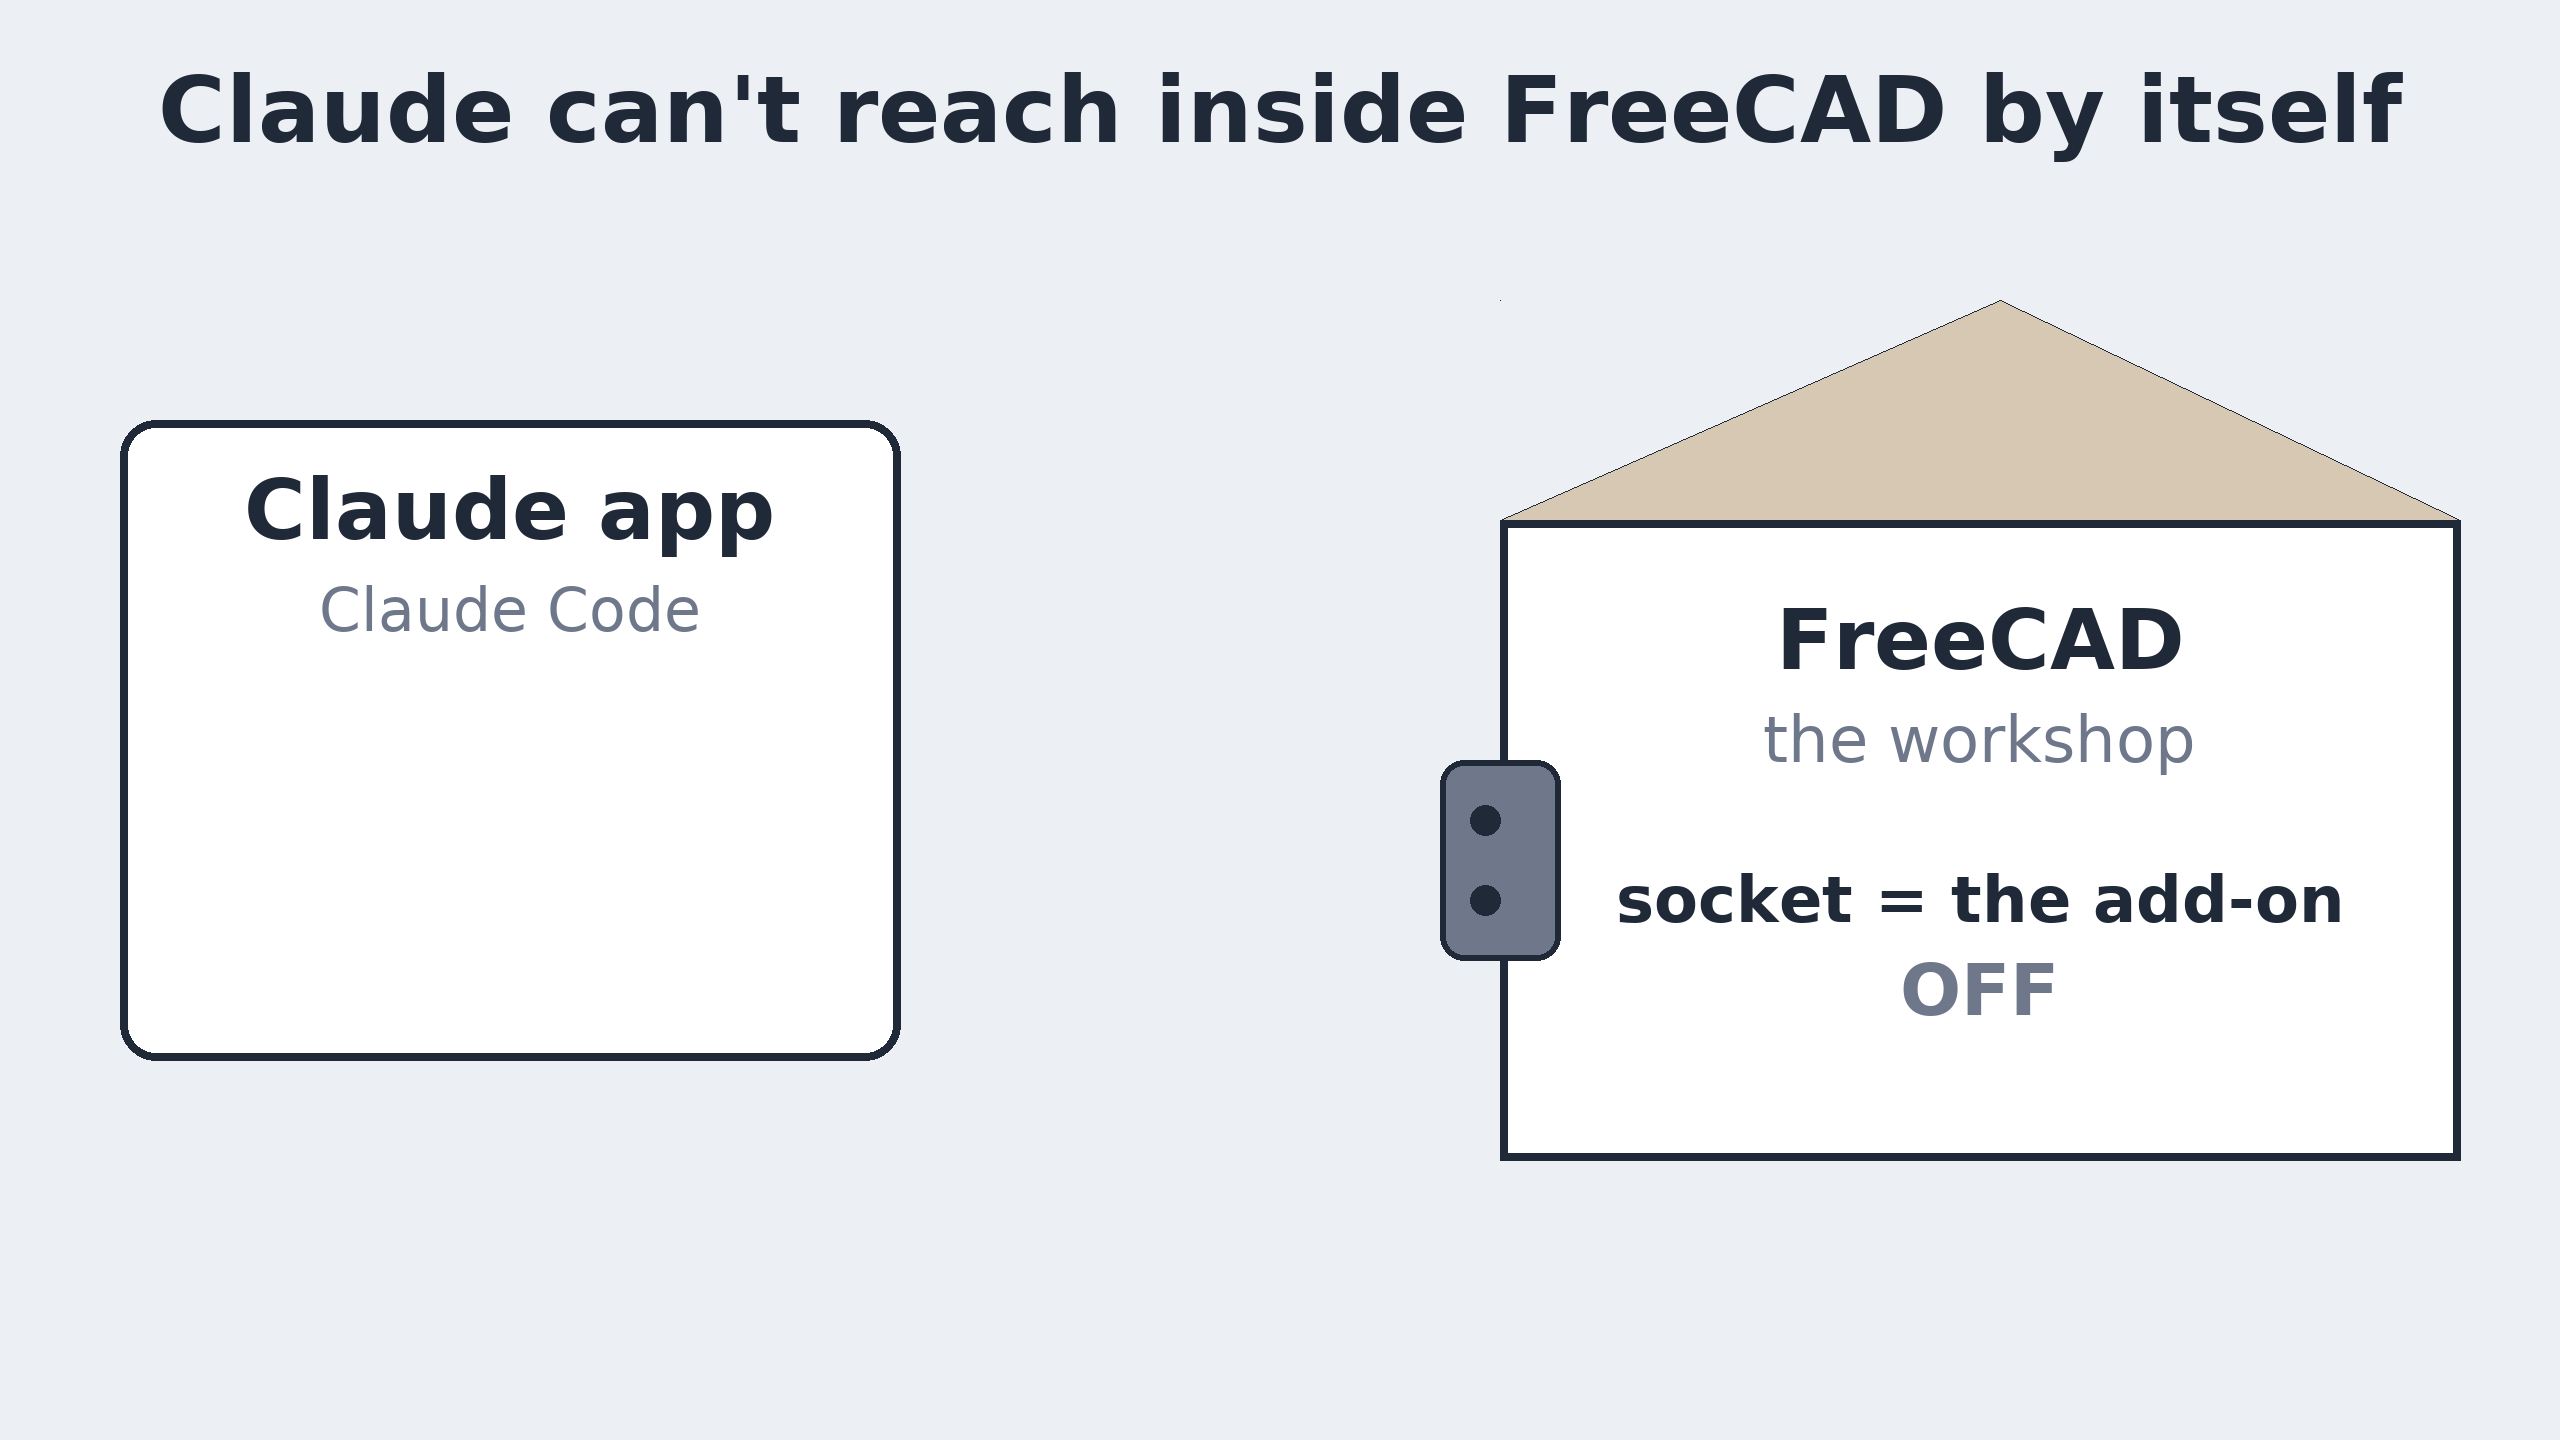
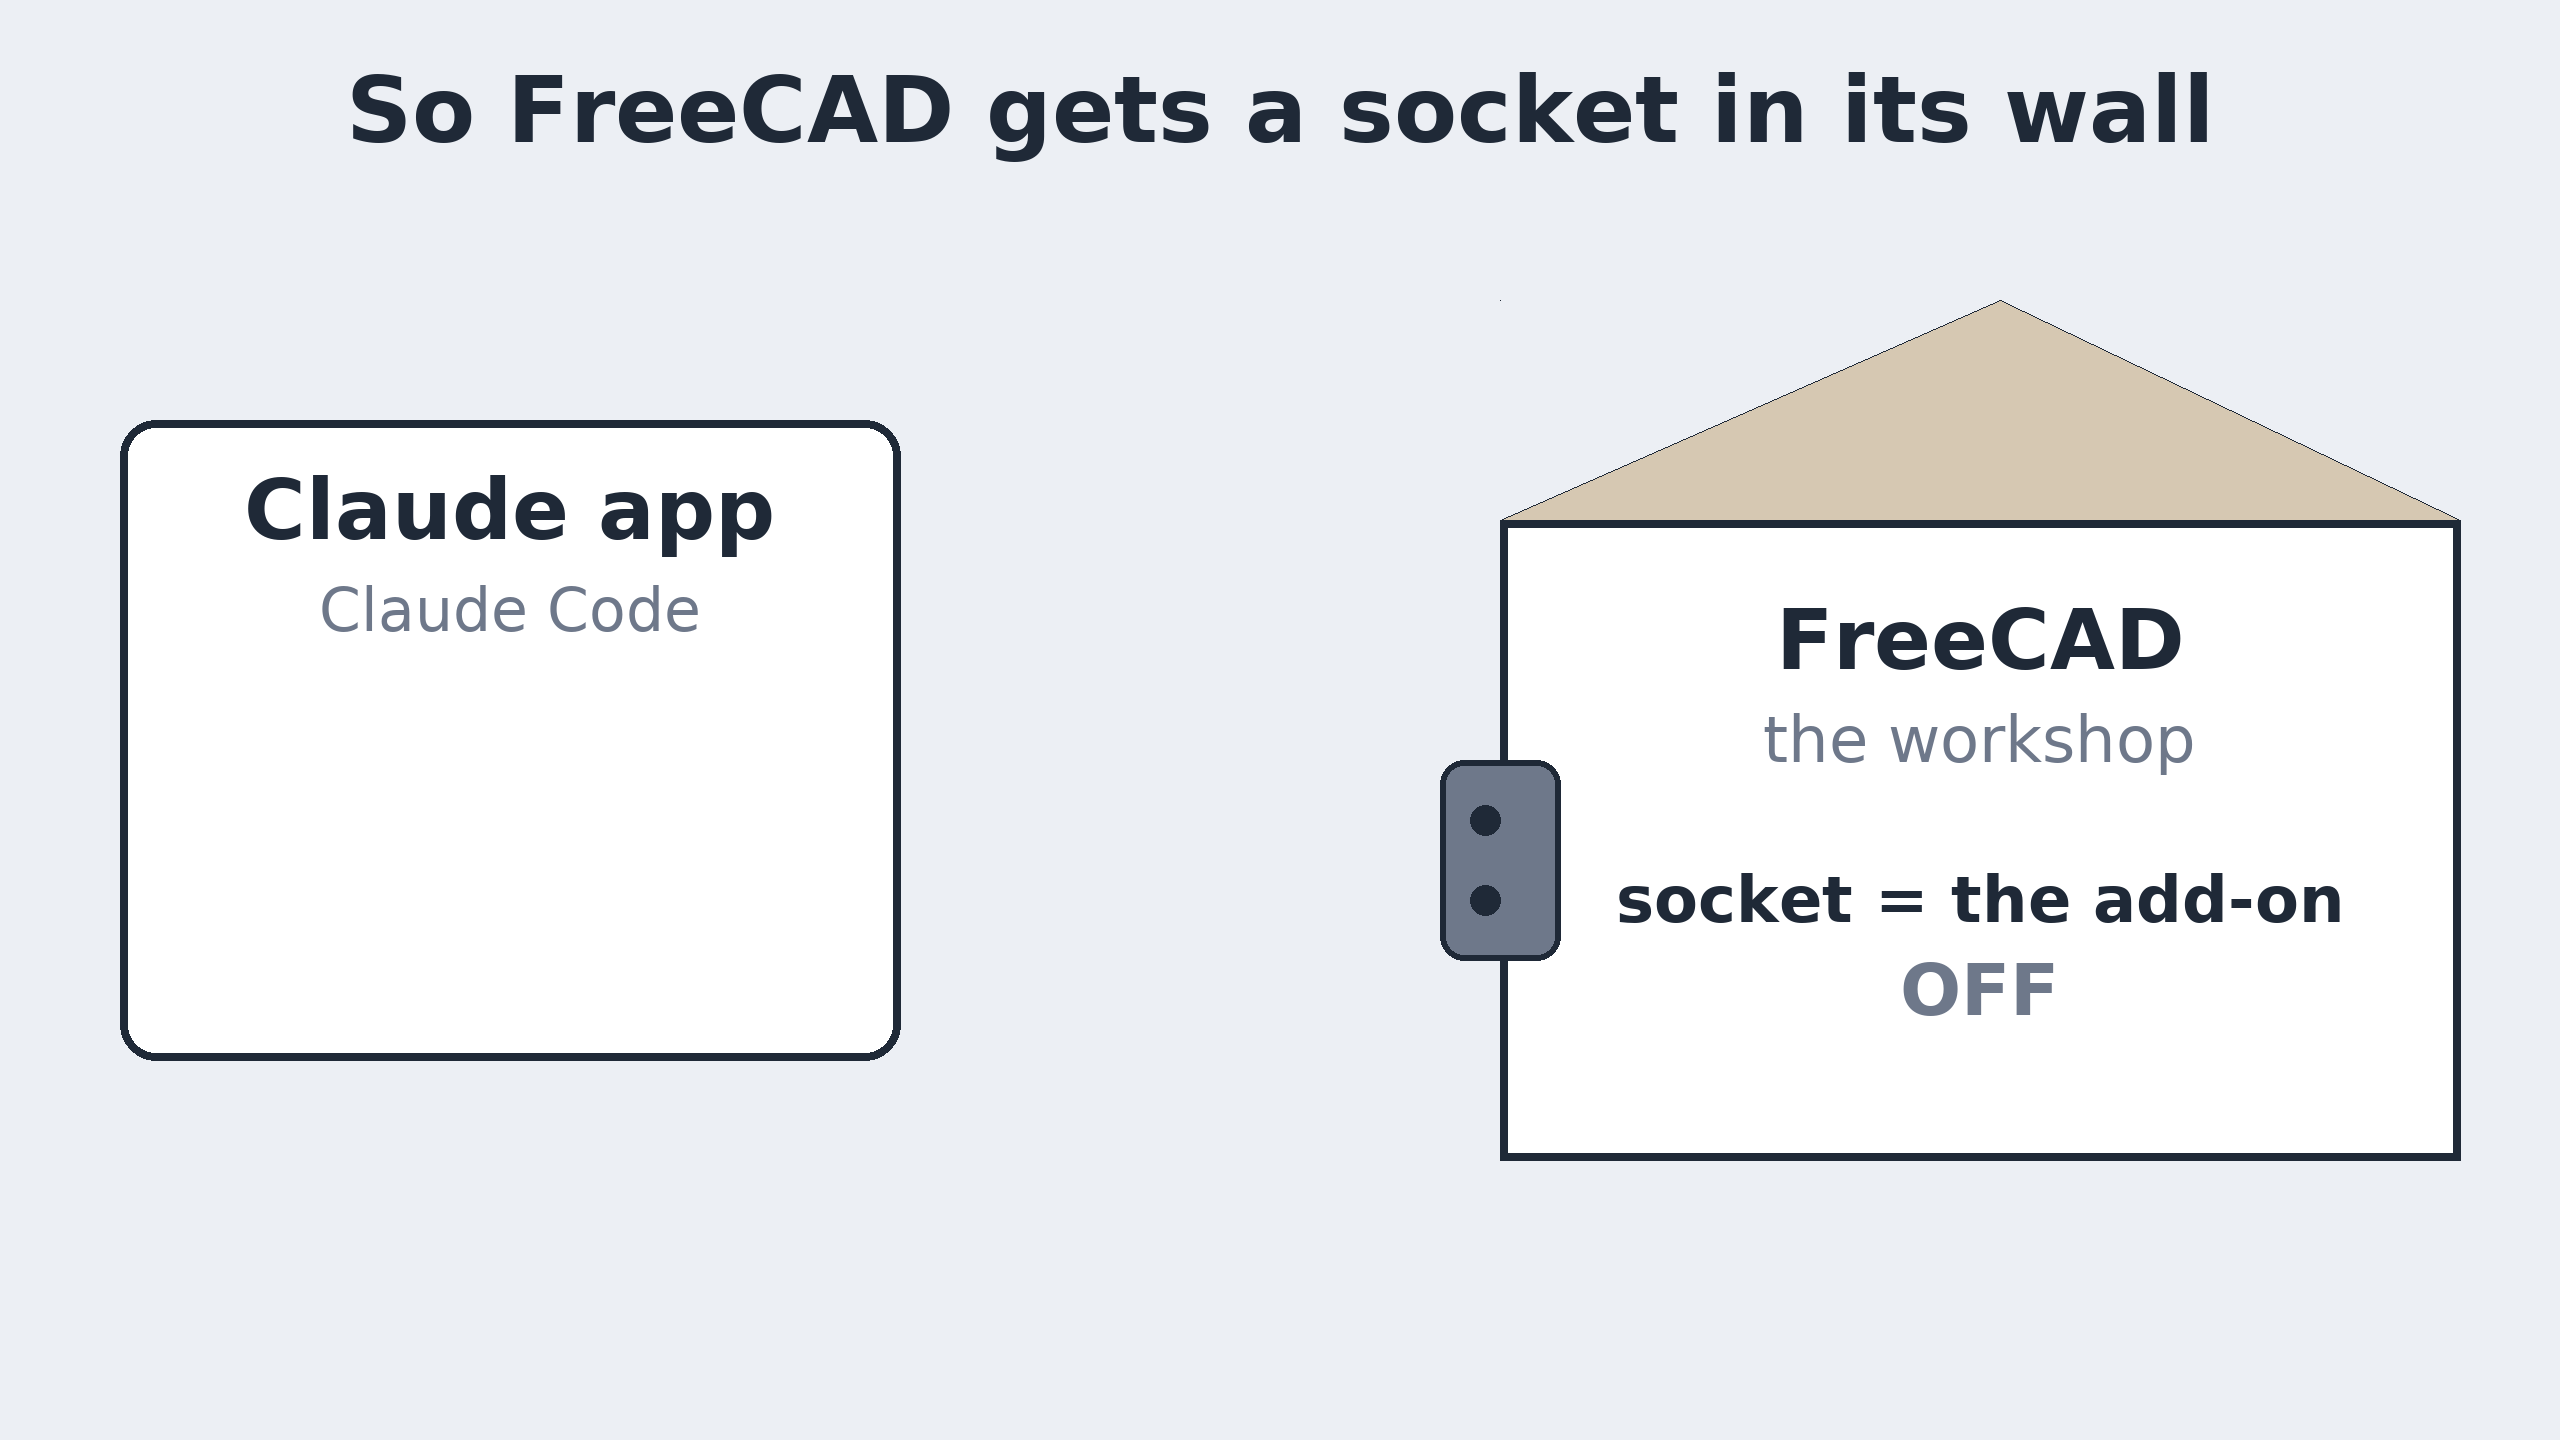
Lesson 1 re-cut 6-7: socket-off, steps and map cards

Changed region(s): [[0.0625, 0.0312, 0.9375, 0.125]]

diff --git a/video/draw.py b/video/draw.py
@@ -79,8 +79,8 @@ def workshop(d, socket_on=None, plug=None, steps=False):
         d.rectangle((x1, 885, x1 + (12 if plug == 'in' else 40), 905), fill=INK)
         text(d, (1170, 760), 'plug = MCP server', 60, BLUE, anchor='mm')
     if steps:
-        for k, s in enumerate(['1  FreeCAD', '2  the add-on', '3  uv', '4  the plug line']):
-            chip(d, (140 + k * 600, 1220), s, 56, PAPER, INK if k else BLUE)
+        for k, s in enumerate(['0  Claude Code', '1  FreeCAD', '2  the add-on', '3  uv', '4  the plug line']):
+            chip(d, (100 + k * 490, 1220), s, 50, PAPER, INK if k else BLUE)
 
 
 def save(im, name):
@@ -89,7 +89,18 @@ def save(im, name):
 
 
 def cards():
-    im, d = canvas(); header(d, "Claude can't reach inside FreeCAD by itself"); workshop(d, socket_on=False)
+    im, d = canvas(); header(d, "Claude can't reach inside FreeCAD by itself"); workshop(d)
+    save(im, 'card-map.png')
+    im, d = canvas(); header(d, "Claude can't reach inside FreeCAD by itself"); workshop(d)
+    d.rounded_rectangle((1000, 1100, 1450, 1340), radius=30, fill=BG, outline=GREY, width=6)
+    text(d, (1225, 1185), 'hidden copy', 56, GREY, anchor='mm')
+    text(d, (1225, 1270), 'of FreeCAD', 48, GREY, R, anchor='mm')
+    chip(d, (140, 1180), 'before setup: Claude used a hidden copy', 56, PAPER, GREY)
+    save(im, 'card-map-hidden.png')
+    im, d = canvas(); header(d, 'MCP: a shared language'); workshop(d, socket_on=True, plug='out')
+    chip(d, (W / 2, 1200), 'AI apps use it to talk to other programs', 60, PAPER, BLUE, anchor='m')
+    save(im, 'card-mcp.png')
+    im, d = canvas(); header(d, 'So FreeCAD gets a socket in its wall'); workshop(d, socket_on=False)
     save(im, 'card-socket-off.png')
     im, d = canvas(); header(d, 'A socket in the wall: the add-on'); workshop(d, socket_on=True)
     chip(d, (1560, 1200), 'this computer only', 60, PAPER, GREEN)
